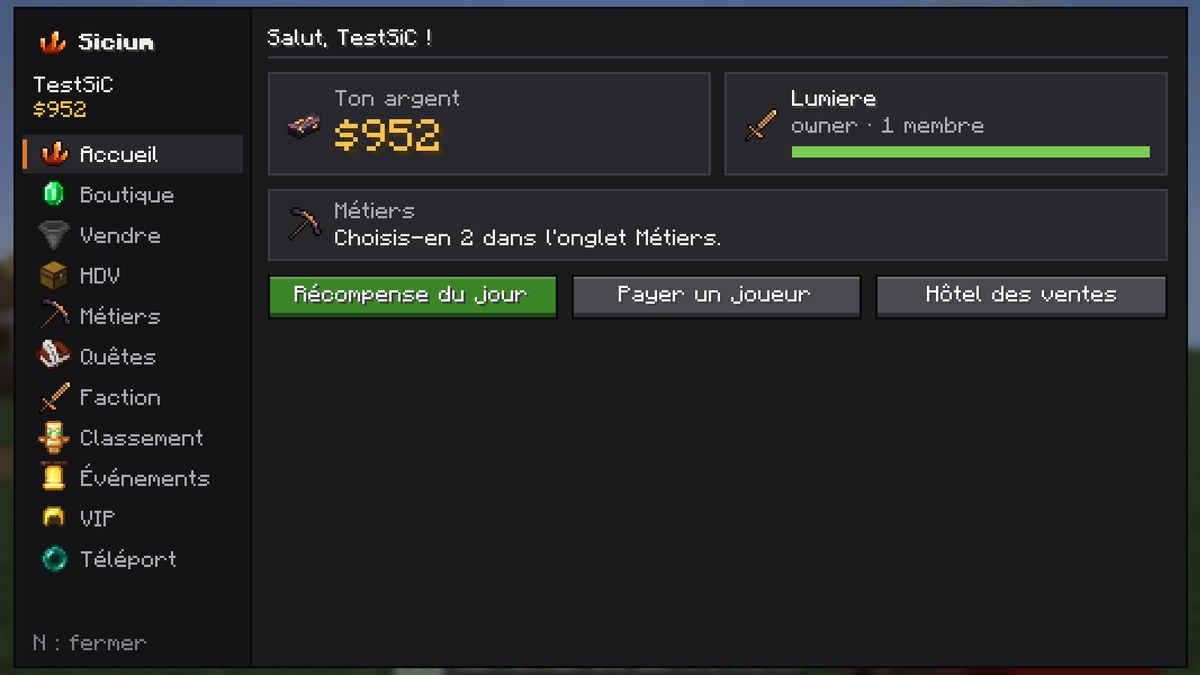
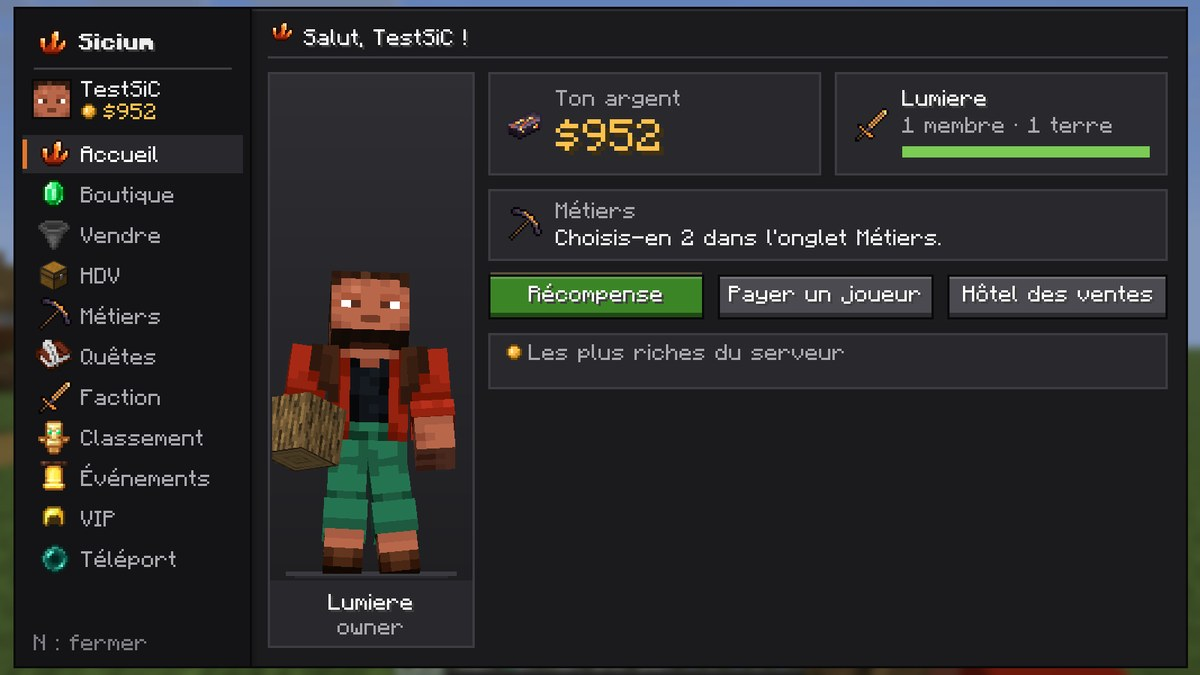
Launcher 2.5.0 : accueil plus vivant, skin 3D, menu Sicium animé
Captures du nouveau launcher et du menu (personnage 3D, podium, métiers),
texte du launcher mis à jour, version, taille et empreinte de l'installateur.

diff --git a/index.html b/index.html
@@ -334,7 +334,7 @@
       <img class="reveal" src="img/launcher.jpg" alt="Le launcher Sicium : actualités, état du serveur et bouton JOUER" loading="lazy" width="1120" height="700">
       <div class="reveal d1">
         <h3>Le launcher</h3>
-        <p class="muted">Tout est au même endroit : les actualités, l'état du serveur, les shaders, ton skin et l'onglet Bugs et idées.</p>
+        <p class="muted">Tout est au même endroit : les actualités, le compte à rebours du prochain rendez-vous, l'état du serveur (avec les joueurs connectés au survol), les shaders, ton skin en 3D et l'onglet Bugs et idées.</p>
         <ul>
           <li>Mods, pack de textures et réglages installés tout seuls.</li>
           <li>Quand une nouvelle version sort, le bouton JOUER devient « Mettre à jour » : un clic, le launcher redémarre, et c'est prêt.</li>
@@ -493,10 +493,10 @@
 //  Réglages : à mettre à jour à chaque nouvelle version du launcher
 // ---------------------------------------------------------------------------
 const SITE = {
-  version: '2.4.0',
-  size: '117 Mo',
+  version: '2.5.0',
+  size: '118 Mo',
   download: 'https://github.com/OcZ13-blip/sicium/releases/latest/download/Sicium-Launcher-Setup.exe',
[2 lines of base64/hex data omitted]
   server: '91.197.6.226:27767'
 };
 
